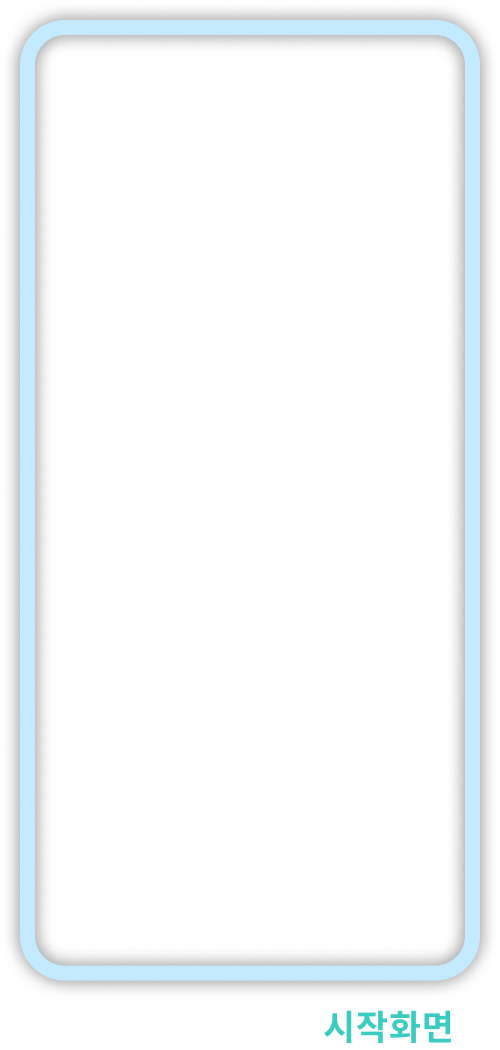
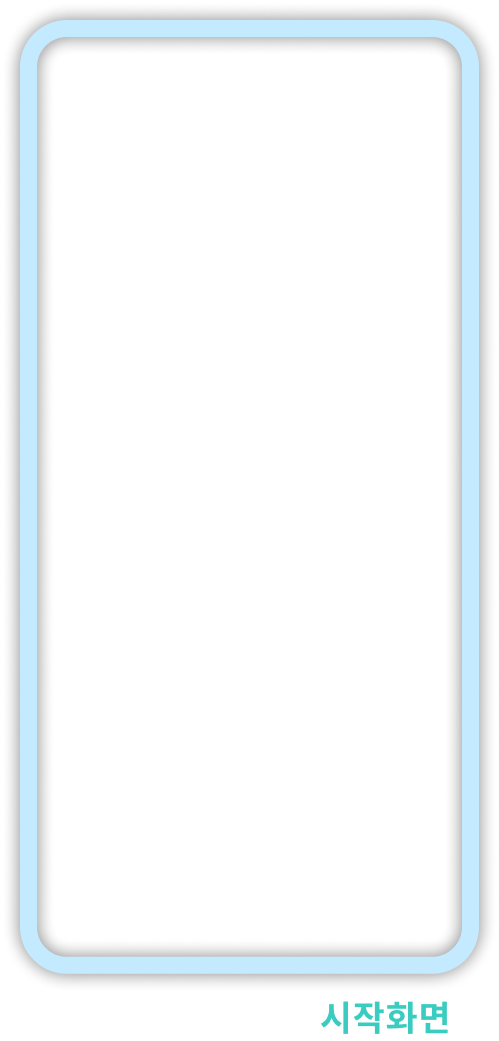
시작화면수정

Changed region(s): [[0.0601, 0.0307, 0.1202, 0.9222], [0.9018, 0.0307, 0.9319, 0.9222], [0.6313, 0.9529, 0.9018, 1.0]]

diff --git a/docs/pf/work1/index.html b/docs/pf/work1/index.html
@@ -40,8 +40,6 @@
       </svg>
 
 
-
-
       <svg class="hexagon hexagon-2 hexagon-white" width="567" height="566" viewBox="0 0 567 566" fill="none"
         xmlns="http://www.w3.org/2000/svg">
         <path

diff --git a/docs/pf/work1/index.css b/docs/pf/work1/index.css
@@ -605,9 +605,9 @@ video {
 }
 
 .mp4_1 {
-  width: 426px;
-  top: 31px;
-  left: 37px;
+  width: 423px;
+  top: 30px;
+  left: 38px;
   z-index: -1;
 }
 
